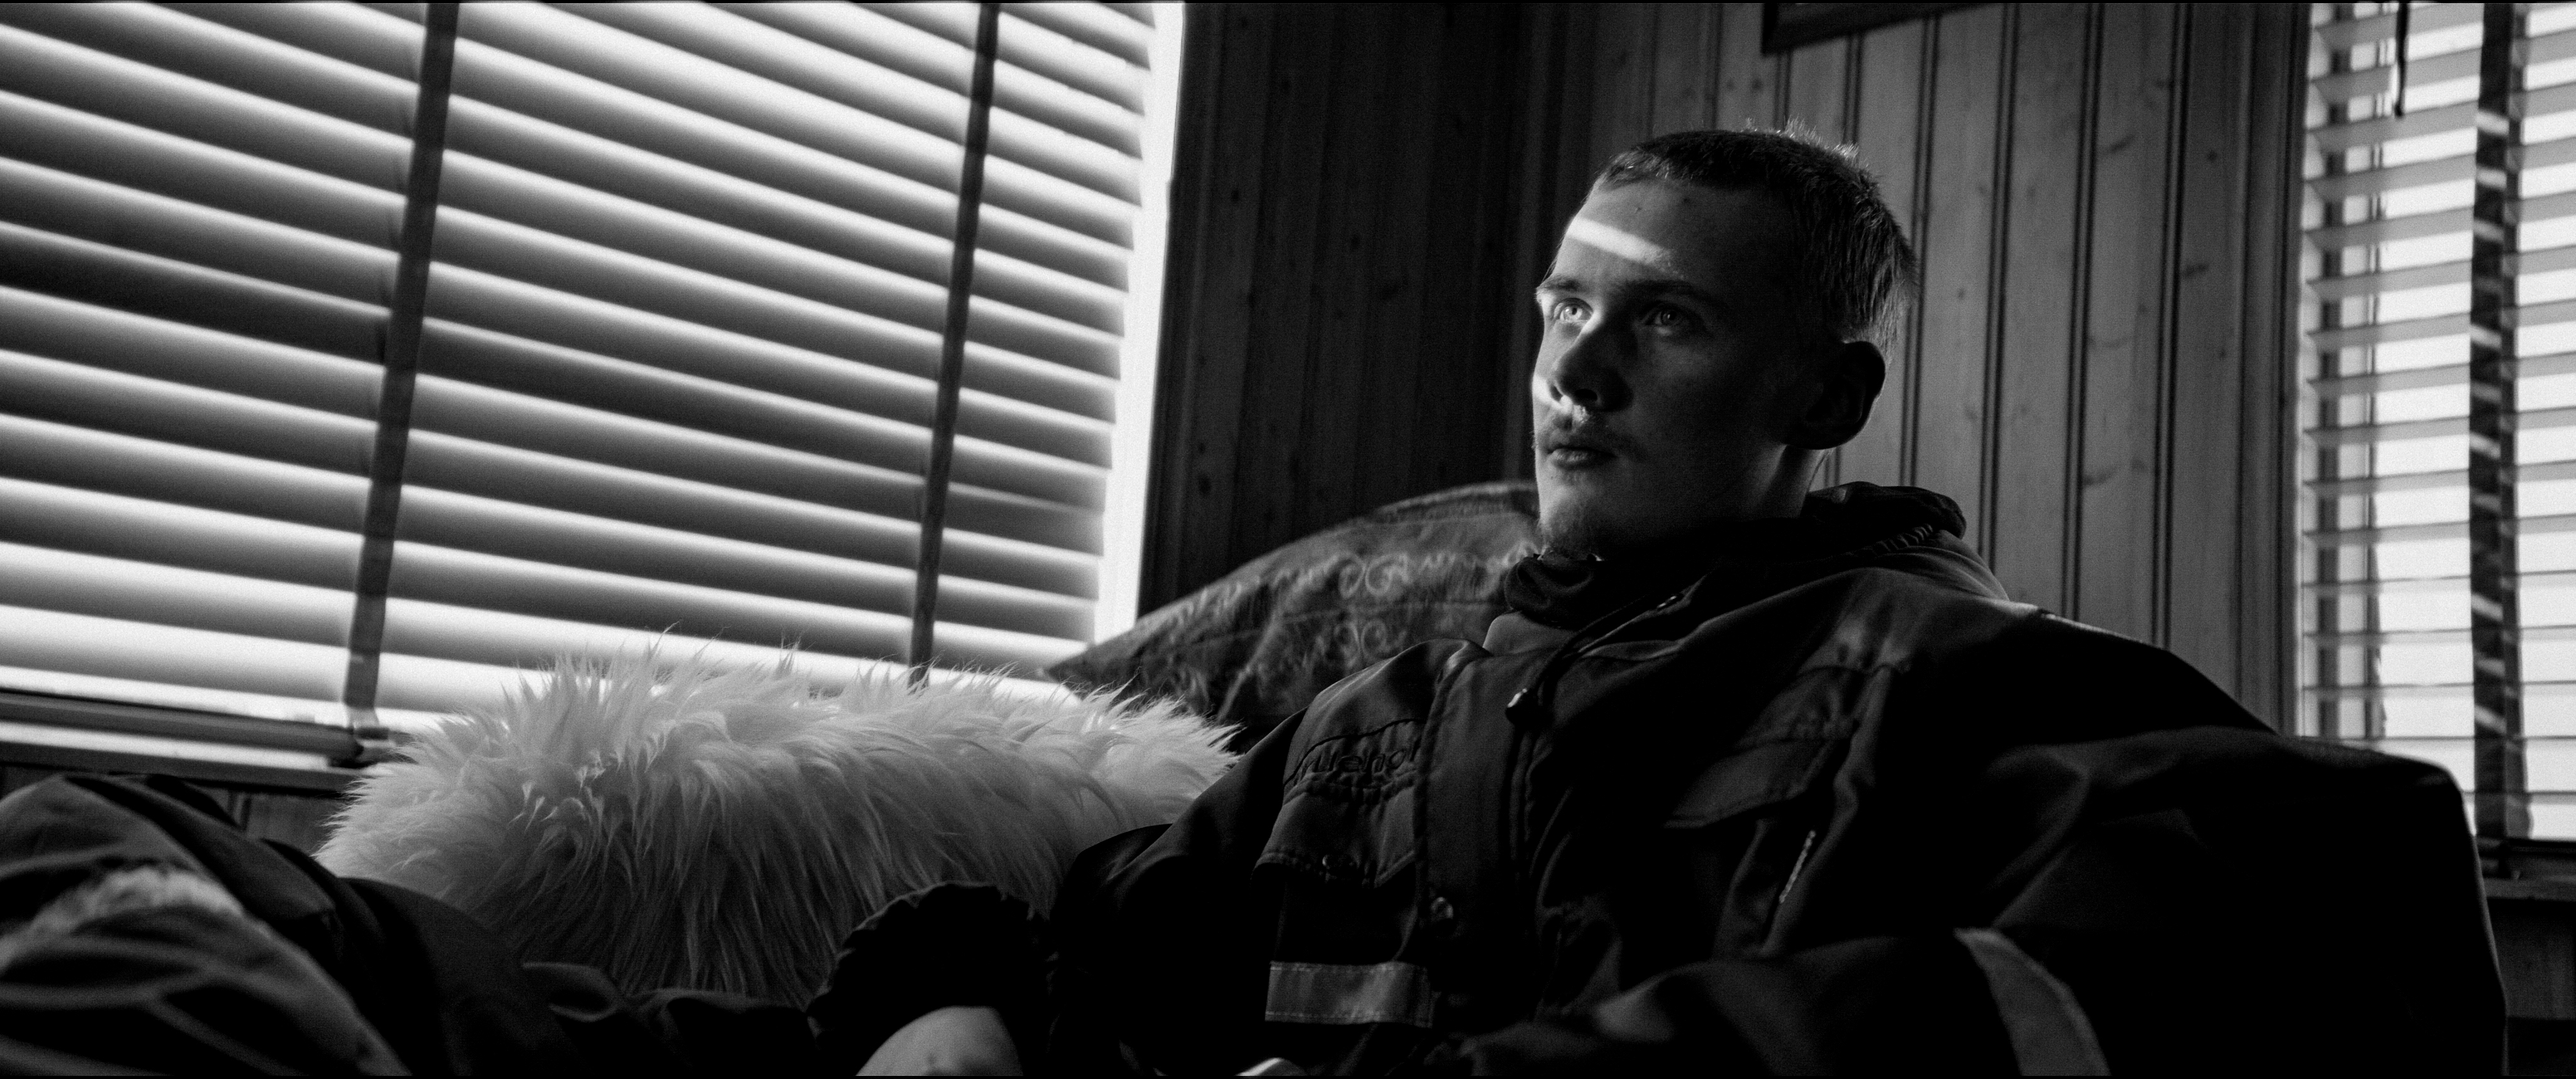
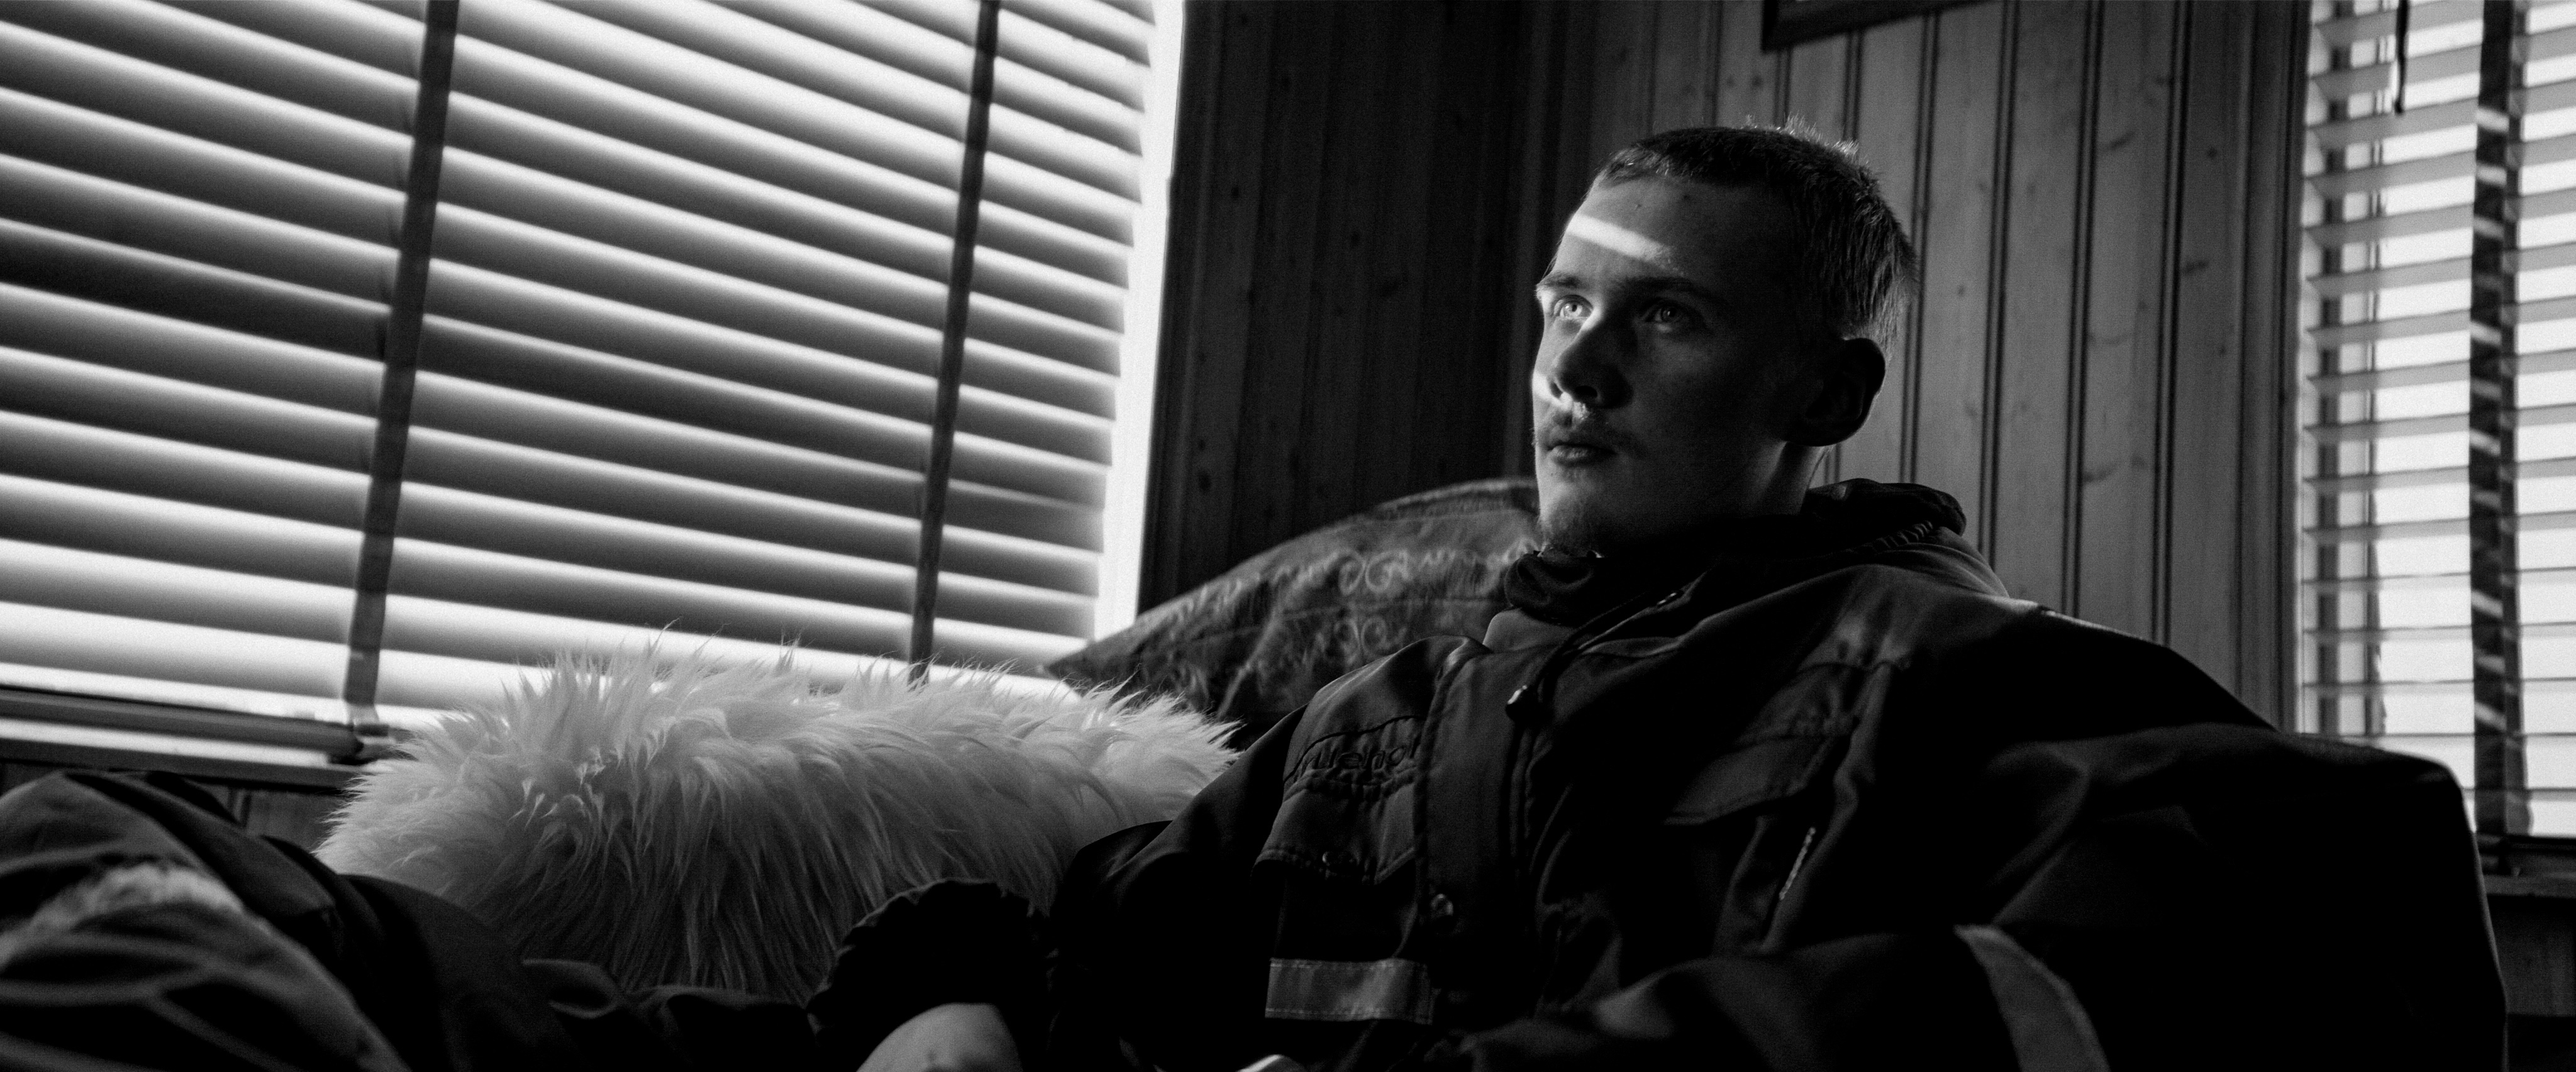
Add maximum image widths

diff --git a/js/lightbox.js b/js/lightbox.js
@@ -1,25 +1,36 @@
 function initLightbox() {
   const images = document.querySelectorAll(".lightbox-viewable");
   const lightbox = document.getElementById("lightbox");
-  const lightboxImg = document.getElementById("lightbox-img");
 
-  if (!lightbox || !lightboxImg) {
+  const pictureElements = {};
+
+  if (!lightbox) {
     console.log("Lightbox missing");
     return;
   }
 
   images.forEach((img) => {
+    // Create lightbox image element for each clicked image
+    pictureElements[img.src] = img.parentElement.cloneNode(true);
 
     img.addEventListener("click", () => {
-      lightbox.style.display = "flex";
-      lightboxImg.src = img.currentSrc;
+      if (pictureElements[img.src] === undefined) {
+        console.log(`Error: Lightbox picture element unavailable for image with src: ${img.src}`);
+        return;
+      }
+      
+      // Replace lightbox image with clicked image
+      lightbox.replaceChildren(pictureElements[img.src]);
+
+      // Show lightbox
+      lightbox.style.display = "flex";      
     });
 
   });
 
   lightbox.addEventListener("click", () => {
+    // Hide lightbox
     lightbox.style.display = "none";
-    lightboxImg.src = "";
   });
 
 };

diff --git a/eleventy.config.js b/eleventy.config.js
@@ -11,10 +11,15 @@ export default function (eleventyConfig) {
     formats: ["avif", "webp", "jpeg", "svg"],
     svgShortCircuit: true,
     transformOnRequest: false,
+    
+    // Maximum image widths
+    widths: [4096, 2048],
 
     htmlOptions: {
       imgAttributes: {
         alt: "",
+        loading: "lazy",
+				decoding: "async",
       }
     },
 

diff --git a/about.html b/about.html
@@ -10,7 +10,7 @@ title: About me
 
 <main class="about-page">
   <div class="container">
-    <img src="/images/profile-1920px.jpg" class="about-img">
+    <img src="/images/profile.jpg" class="about-img">
 
     <div class="about-lower">
       <aside class="about-hi">Hi</aside>

diff --git a/photography.html b/photography.html
@@ -3,9 +3,7 @@ layout: page.liquid
 title: Photography
 ---
 <!-- Lightbox -->
-<div id="lightbox" class="lightbox">
-  <img id="lightbox-img" src="">
-</div>
+<div id="lightbox" class="lightbox"></div>
 
 <section class="page-title">
   <div class="container">
